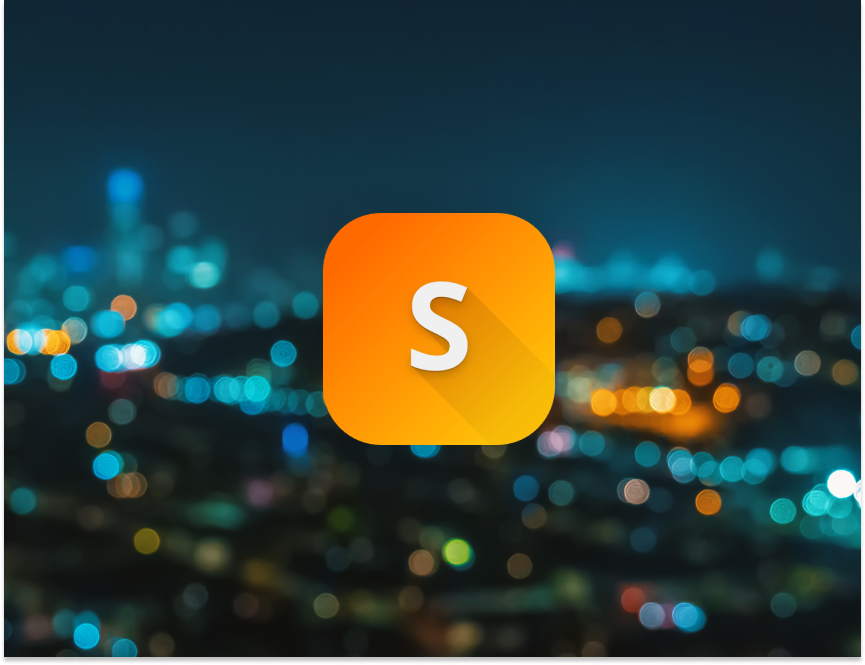
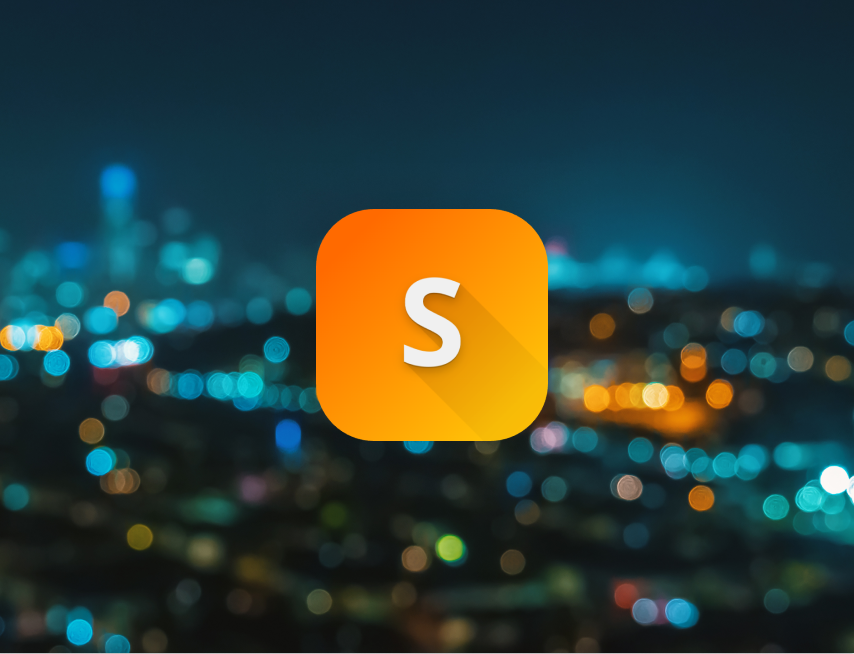
change og image file and og desc

diff --git a/index.html b/index.html
@@ -5,7 +5,7 @@
     <link rel="icon" href="/icon-512.png" />
     <meta name="viewport" content="width=device-width, initial-scale=1.0" />
     <meta property="og:title" content="스냅 소사이어티" />
-    <meta property="og:description" content="까다로운 당신을 위한 사진 커뮤니티" />
+    <meta property="og:description" content="모두를 위한 사진 공유 플랫폼" />
     <meta property="og:image" content="/og-img.png" />
     <link rel="preconnect" href="https://fonts.googleapis.com" />
     <link rel="preconnect" href="https://fonts.gstatic.com" crossorigin />
